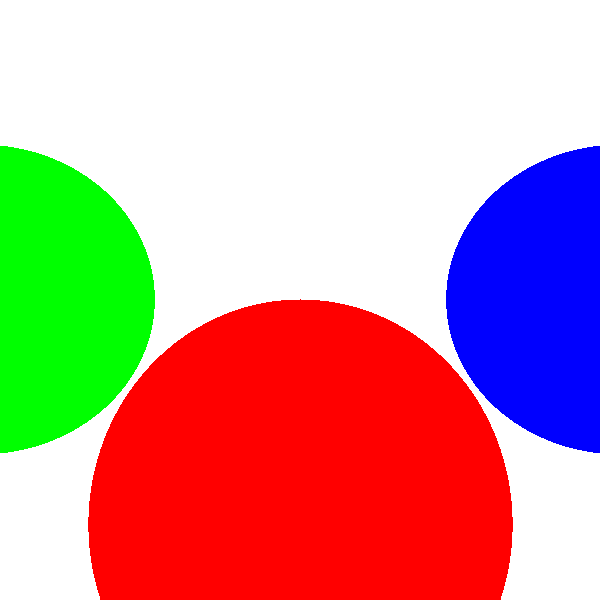
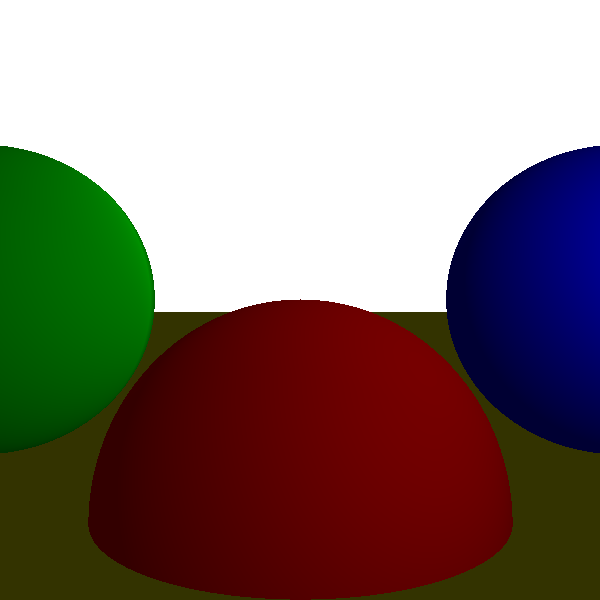
diffuse reflection

diff --git a/src/raytracer.rs b/src/raytracer.rs
@@ -5,6 +5,7 @@ const BACKGROUNDCOLOR: [u8; 3] = [255, 255, 255];
 
 pub struct Scene {
     pub spheres: Vec<Sphere>,
+    pub lights: Vec<Light>,
 }
 
 pub struct Sphere {
@@ -29,9 +30,16 @@ impl Viewport {
     }
 }
 
+pub enum Light {
+    Point { intensity: f32, position: [f32; 3] },
+    Directional { intensity: f32, direction: [f32; 3] },
+    Ambient { intensity: f32 },
+}
+
 pub fn trace_ray(origin: [f32; 3], direction: [f32; 3], t_min: f32, scene:&Scene) -> [u8; 3] {
     let mut closest_t: f32 = TMAX;
     let mut closest_sphere: &Sphere = &Sphere { center: [0.0, 0.0, 0.0], radius: 0.0, color: BACKGROUNDCOLOR };
+    let mut background: bool = true;
 
     for sphere in &scene.spheres {
         let (t1, t2): (f32, f32) = intersect_ray_sphere(origin, direction, sphere);
@@ -39,15 +47,44 @@ pub fn trace_ray(origin: [f32; 3], direction: [f32; 3], t_min: f32, scene:&Scene
         if t_min < t1 && t1 < TMAX && t1 < closest_t {
             closest_t = t1;
             closest_sphere = sphere;
+            background = false;
         }
         if t_min < t2 && t2 < TMAX && t2 < closest_t {
             closest_t = t2;
             closest_sphere = sphere;
+            background = false;
         }
 
     }
 
-    return closest_sphere.color
+    if !background {
+        let point: [f32; 3] = [
+            origin[0] + (closest_t * direction[0]),
+            origin[1] + (closest_t * direction[1]),
+            origin[2] + (closest_t * direction[2])
+        ];
+        let normal: [f32; 3] = [
+            point[0] - closest_sphere.center[0],
+            point[1] - closest_sphere.center[1],
+            point[2] - closest_sphere.center[2]
+        ];
+        let normal_len: f32 = (normal[0] * normal[0]) + (normal[1] * normal[1]) + (normal[2] * normal[2]).sqrt();
+        let unit_normal: [f32; 3] = [
+            normal[0] / normal_len,
+            normal[1] / normal_len,
+            normal[2] / normal_len
+        ];
+        let lighting: f32 = compute_lighting(point, unit_normal, &scene);
+
+        return [
+            (closest_sphere.color[0] as f32 * lighting).round() as u8,
+            (closest_sphere.color[1] as f32 * lighting).round() as u8,
+            (closest_sphere.color[2] as f32 * lighting).round() as u8
+        ]
+    }
+    else {
+        return closest_sphere.color
+    }
 }
 
 pub fn intersect_ray_sphere(origin: [f32; 3], direction: [f32; 3], sphere: &Sphere) -> (f32, f32) {
@@ -85,4 +122,38 @@ pub fn render_scene(mut canvas: image::RgbImage, scene: Scene, viewport: Viewpor
     }
 
     canvas.save("image.png").unwrap();
+}
+
+pub fn compute_lighting(point: [f32; 3], normal: [f32; 3], scene: &Scene) -> f32 {
+    let mut total_intensity: f32 = 0.0;
+
+    for light in &scene.lights {
+        match light {
+            Light::Ambient { intensity } => total_intensity += intensity,
+            Light::Point { intensity, position } => {
+                let l: [f32; 3] = [position[0] - point[0], position[1] - point[1], position[2] - point[2]];
+                let normal_dot_l: f32 = (normal[0] * l[0]) + (normal[1] * l[1]) + (normal[2] * l[2]);
+
+                if normal_dot_l > 0.0 {
+                    total_intensity += intensity * (normal_dot_l / (
+                        (normal[0] * normal[0]) + (normal[1] * normal[1]) + (normal[2] * normal[2]).sqrt() *
+                        (l[0] * l[0]) + (l[1] * l[1]) + (l[2] * l[2]).sqrt()
+                    ))
+                }
+            }
+            Light::Directional { intensity, direction } => {
+                let l: [f32; 3] = *direction;
+                let normal_dot_l: f32 = (normal[0] * l[0]) + (normal[1] * l[1]) + (normal[2] * l[2]);
+
+                if normal_dot_l > 0.0 {
+                    total_intensity += intensity * (normal_dot_l / (
+                        (normal[0] * normal[0]) + (normal[1] * normal[1]) + (normal[2] * normal[2]).sqrt() *
+                        (l[0] * l[0]) + (l[1] * l[1]) + (l[2] * l[2]).sqrt()
+                    ))
+                }
+            }
+        }
+    }
+
+    return total_intensity
 }

diff --git a/src/main.rs b/src/main.rs
@@ -18,7 +18,17 @@ fn main() {
                 center: [-2.0, 0.0, 4.0],
                 radius: 1.0,
                 color: [0, 255, 0],
+            },
+            Sphere {
+                center: [0.0, -5001.0, 0.0],
+                radius: 5000.0,
+                color: [255, 255, 0]
             }
+        ]),
+        lights: Vec::from([
+            Light::Ambient { intensity: 0.2 },
+            Light::Point { intensity: 0.6, position: [2.0, 1.0, 0.0] },
+            Light::Directional { intensity: 0.2, direction: [1.0, 4.0, 4.0] }
         ])
     };
 
